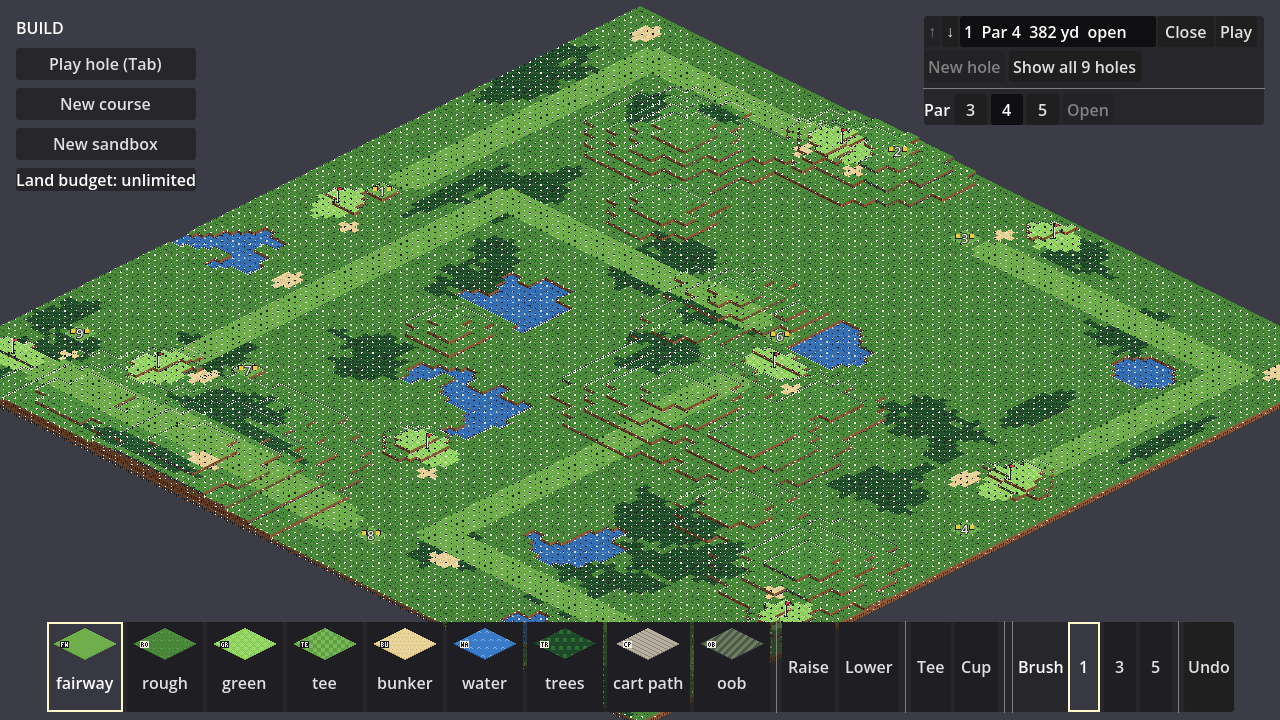
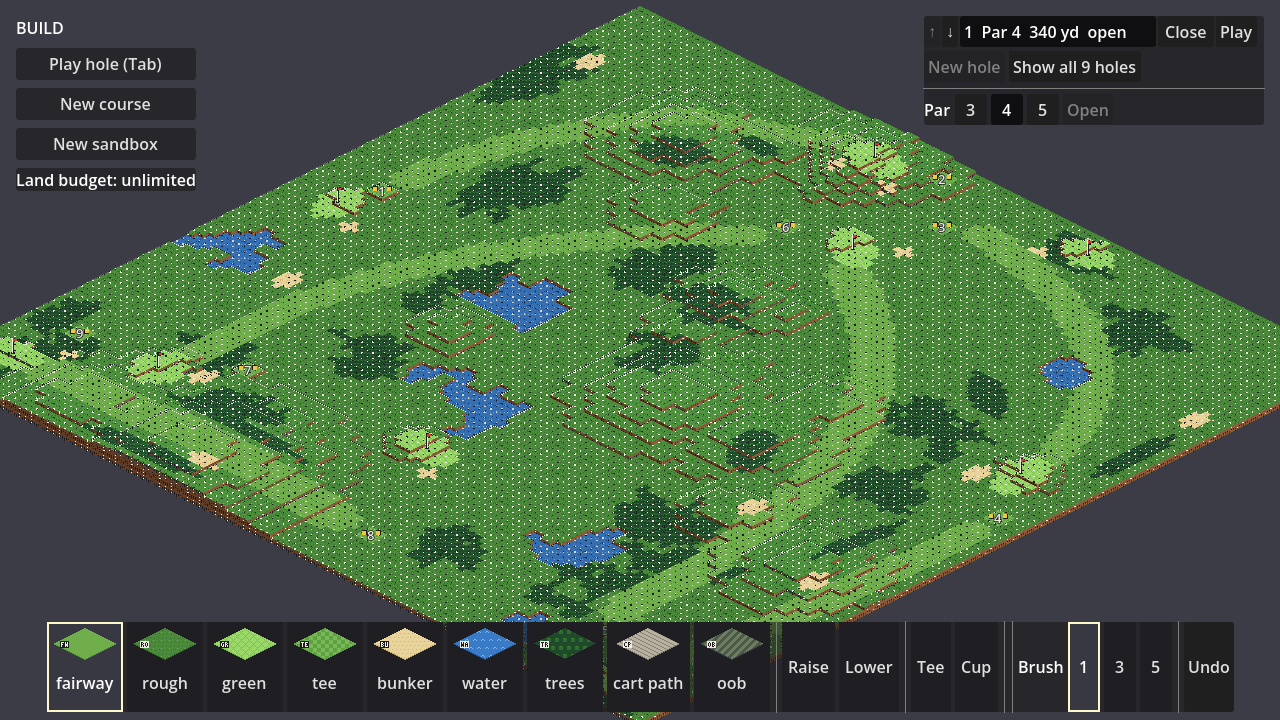
fix: E3-S50 curve the playtest nine's doglegs

Changed region(s): [[0.25, 0.0306, 1.0, 0.8861], [0.8125, 0.0306, 0.8438, 0.0611]]

diff --git a/docs/BACKLOG.md b/docs/BACKLOG.md
@@ -887,6 +887,7 @@ Planning notes (E2-S19, from the E2 review; `/next-epic` read these on 2026-11-0
   - Touches: `tests/fixtures/`, `courses/`, `scripts/`
   - Done 2026-11-06: `PlaytestNine` (`tests/fixtures/playtest_nine.gd`) builds the nine on land seed 7 through CourseBuilder (heights eased to the land's slope rule round each shaped green, tee and pond, then surfaces, then tees, cups and pars, then every hole opened); `courses/playtest_nine.json` ("Playtest Nine") is it saved, par 34, 2,767 yd: 1 par 5 535 straight down the east edge; 2 par 3 144 over a pond; 3 par 4 331 along the south hill; 4 par 4 dogleg right 384 round the corner (311 straight), water inside the corner; 5 par 3 136 up to a hilltop green; 6 par 4 dogleg left 352 (333 straight) to a green in the trees; 7 par 4 dogleg left 329 (308 straight); 8 par 3 226 down off the big hill to a green beside a pond; 9 par 4 330. Greens 33 to 57 tiles, every one tiered or sloped in one-step contours that rise away from the camera so their risers show, holes 1, 3, 6 and 8 two steps. `scripts/play_course.gd -- playtest` opens the file (`--rebuild` or `--save-only` rebuilds it), `tests/test_playtest_nine.gd` keeps the file equal to the fixture; screenshots `docs/decisions/e3-s50-green-1.png` to `-9.png` at 1x, `e3-s50-dogleg-4/6/7.png` at 0.5x and `e3-s50-course.png` (`PLAYTEST_SHOT=green:<n> scripts/screenshot.sh tests/fixtures/playtest_nine_shot.tscn`).
   - Reworked 2026-11-06 (hand playtest: "i don't see any doglegs when i start it"; the old doglegs passed D47 but turned shallow, wide corners, fairways ran into each other's, and the game opened on the straight par 5): rerouted round the map, par 34, 2,845 yd, four doglegs of about 90 degrees with legs along the tile axes (a straight leg of about 240 yd to the corner, then a separate second leg; turns 81 to 86 degrees at D47's turn) and the corner's inside blocked: 1 par 4 dogleg right 382 (294 straight) up the west edge then along the hill that fills its corner, with trees; 2 par 3 140 off the hill; 3 par 4 dogleg right 406 (312 straight), a pond and trees in the corner; 4 par 3 160 up the east hill; 5 par 5 dogleg right 530 west between two ponds, one inside the corner, then north up the hill to a green with a pond behind it; 6 par 5 dogleg left 527 west through the trees, then south past the pond inside the corner; 7 par 3 150 to a green by a pond; 8 par 4 320 straight over the south hill's crest; 9 par 3 230 up the west edge over a pond to a green beside hole 1's tee. Fairways 5 wide (6 on hole 8), every hole's at least 6 tiles from every other's (`test_fairways_are_separate` holds 3). Hole 1 opens the game at 0.175x (no dogleg of 59 tiles straight fits the free view at 0.5x), its corner pointing up the screen clear of the HUD. The fixture fills the land pond across hole 1's first leg (`FILLS`). Tests add: at least four doglegs, hole 1 one of them, each turning at least 50 degrees, and fairway separation. Screenshots redone: `e3-s50-open.png` (the opening frame), `e3-s50-course.png` (`PLAYTEST_SHOT=course`, list collapsed), `e3-s50-dogleg-1/3/5/6.png` at 0.5x (4 and 7 removed) and `e3-s50-green-1.png` to `-9.png`; greens 1, 3 and 7 two steps.
+  - Curved 2026-11-06 (user: "Can we make the dog legs more curvy and less at right angles?"): every dogleg's fairway is now one smooth Bezier sweep (`PlaytestNine.centre_line`, a spec's `curve`, sampled every 0.25 tile and painted 5 or 6 wide), the inside of each bend blocked: 1 par 4 dogleg right 340 (312 straight, so the line of play moves par), sweeping 68 degrees round the hill and its trees to a green moved east to (50, 8); 2 par 3 130 (tee and green moved 8 tiles east); 3 par 4 dogleg right 347 (322 straight), 65 degrees round a dug pond and trees; 4 now a par 4 327, a gentle 20 degree sweep down the east edge (was a par 3 160); 5 par 5 dogleg left 524 (505 straight), 60 degrees from the south-east round the big hill and its trees to a green below the first green (the land pond across its approach filled, `FILLS`); 6 now a par 4 dogleg left 447 (437 straight), 50 degrees south-west past the land pond inside its bend; 7, 8, 9 unchanged. Par 34, 2,815 yd. Every dogleg is measured round its bend (D47 turn found), par from the line of play. `test_doglegs_sweep_in_smooth_arcs` replaces the 50 degree corner check: each dogleg's centre line (every sample on painted fairway) turns 35 to 75 degrees tee to green, no step over 30 degrees between samples 2 tiles apart, D47 measures it round the bend. Screenshots redone (`e3-s50-course.png`, `-open.png`, `-dogleg-1/3/5/6.png` at 0.5x on the turn, `-green-1.png` to `-9.png`).
 - [x] E3-S51 Make putts that roll at the cup drop at a fair rate. A putt struck at the right pace drops more often than it rolls over.
   - Note: (found in the E3-S30 hand playtest) the user's putts roll over or past the cup. `cup_radius` 0.25 yd and `cup_capture_speed` 2.0 yd/s capture a putt finishing up to about 1.3 yd past on a flat green, but the bar maps 1 to 18 yd/s across it, so 1% of the bar is 0.17 yd/s and a 5 yd putt's pace window is a few percent of the bar.
   - Accept: a putting target is added to docs/design.md Balance targets (a human-like click error, `power_sigma` and `accuracy_sigma` set from a skill-7 guest's D40 putt sigmas): made from 1 yd at least 90%, 3 yd 55 to 75%, 8 yd 15 to 30%, on a flat green and on a one-step contour, with three-putts from 8 yd under 15%; `/balance putting` (a new `--table putting` in `scripts/sim.gd`) measures it, and the tune (capture speed, capture radius, the putter's speed range or a distance-scaled bar, whichever moves least) meets it. Any change to putting numbers reruns `/balance reactions` and E3-S24's scoring edges and keeps them in target.
